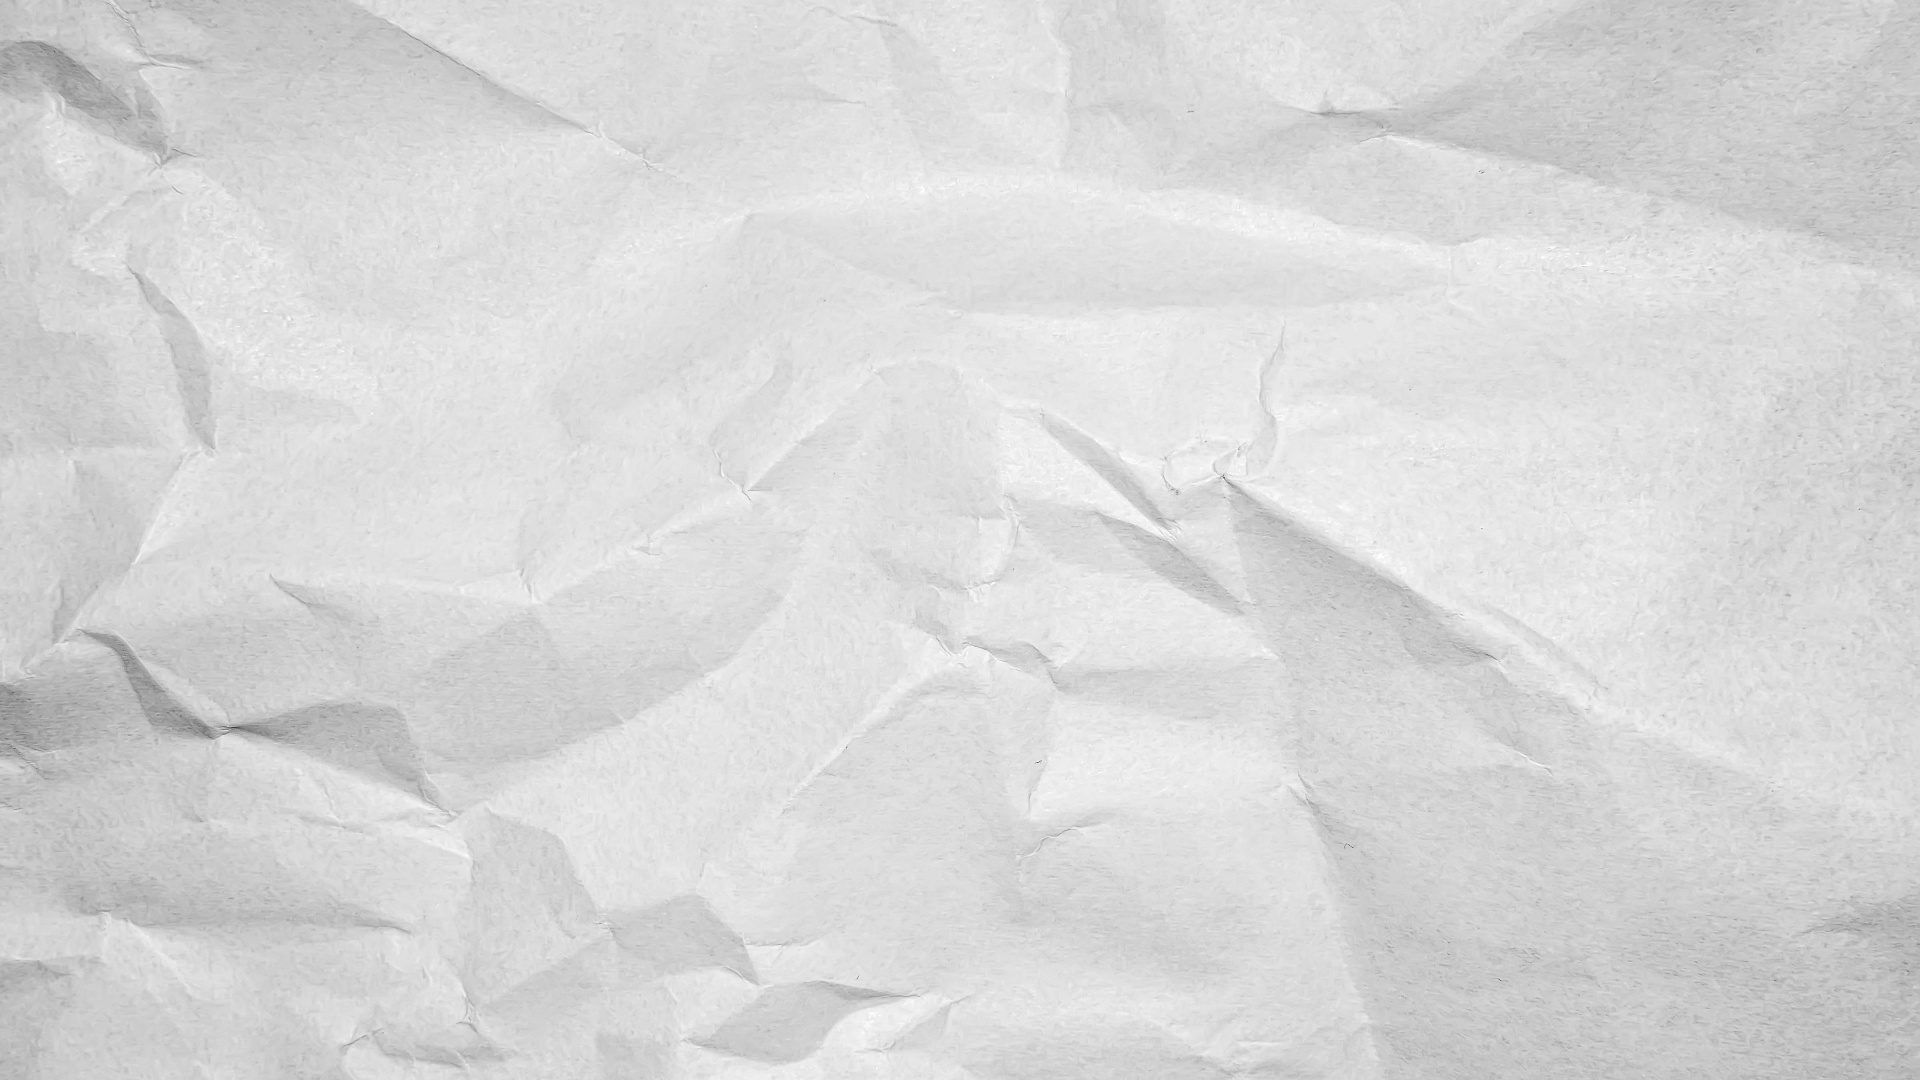
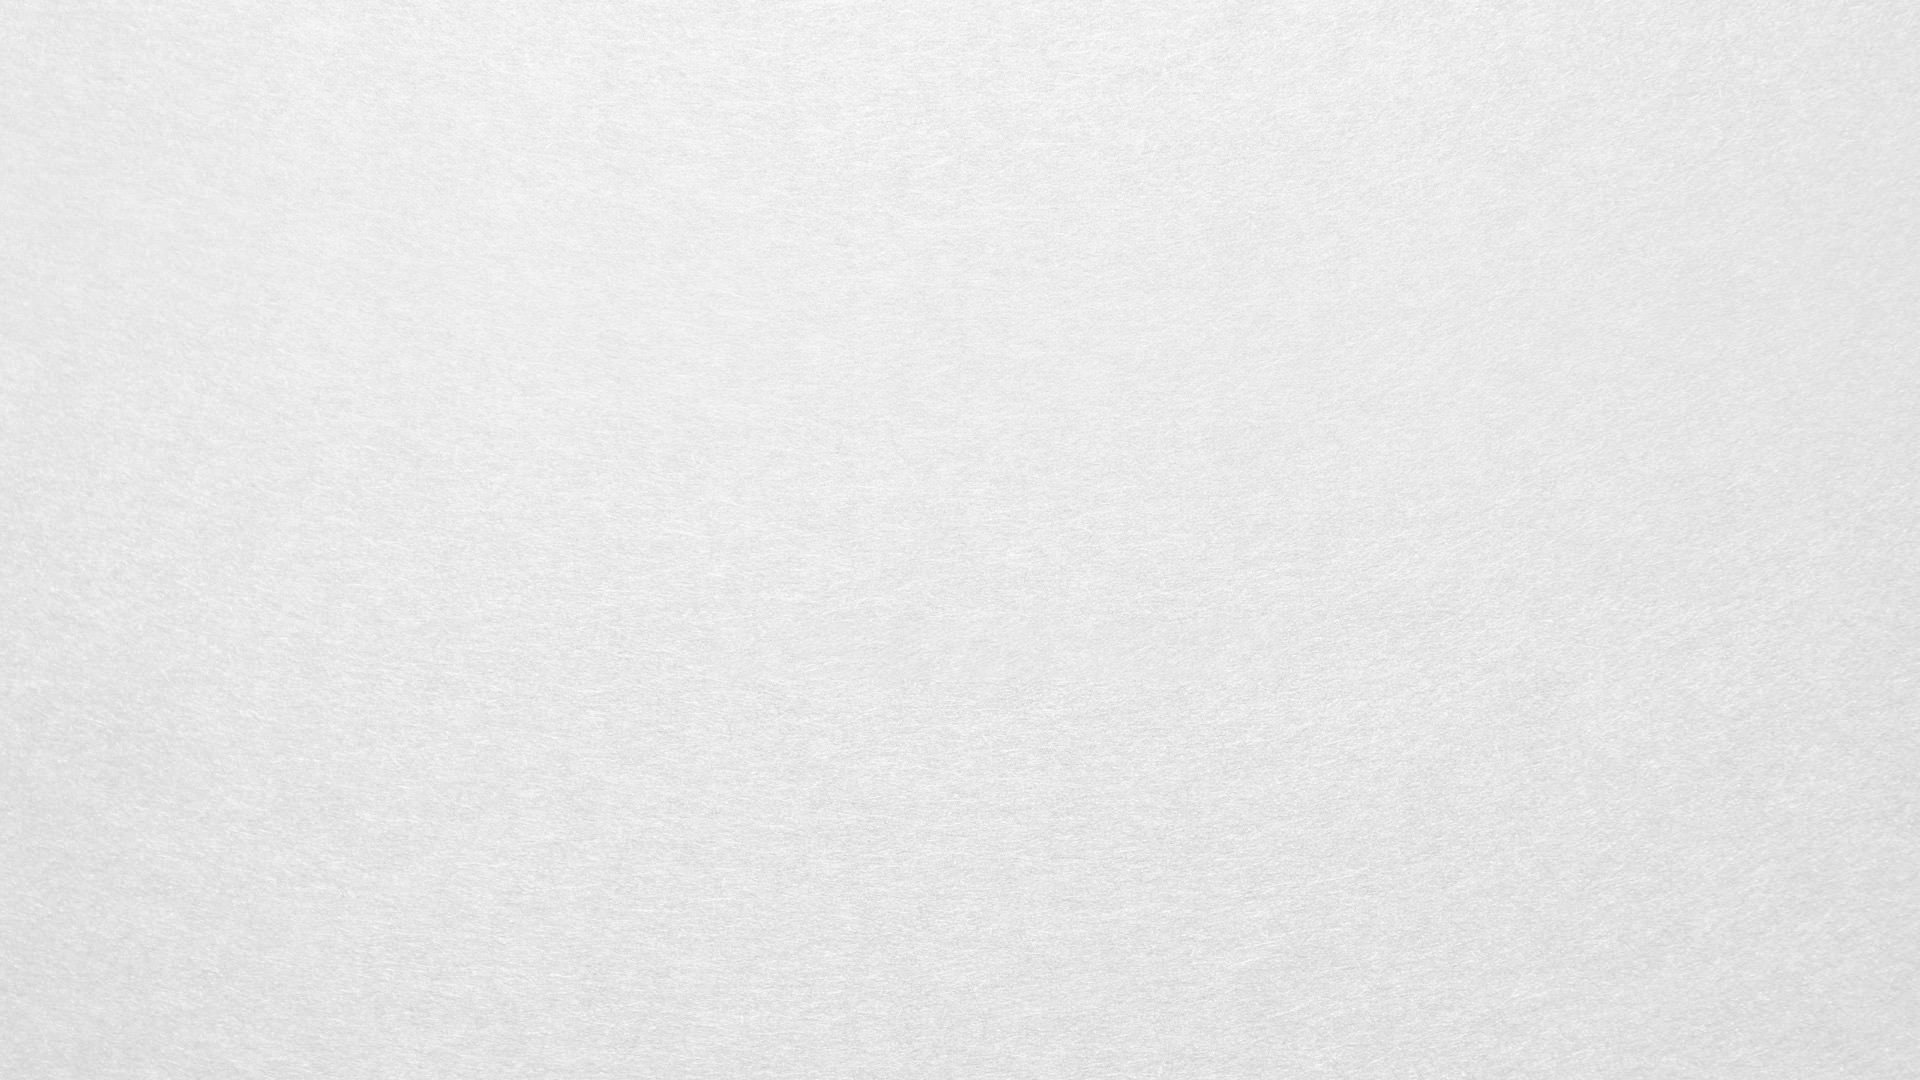
Added background

diff --git a/src/Main/GameStart.java b/src/Main/GameStart.java
@@ -17,6 +17,7 @@ public class GameStart extends JComponent implements Runnable, KeyListener { //R
     private boolean running; //переменная показывающая запущена ли игра
 
     Image player;
+    Image paper;
 
 
     public void start(){
@@ -29,7 +30,7 @@ public class GameStart extends JComponent implements Runnable, KeyListener { //R
          long delta;
 
          init();
-
+        renderStatic(getGraphics());
          while (running){
              delta = System.currentTimeMillis() - lastTime; //разница между кадрами
              lastTime = System.currentTimeMillis(); //обновление времени
@@ -38,10 +39,20 @@ public class GameStart extends JComponent implements Runnable, KeyListener { //R
          }
     }
 
+    private void renderStatic(Graphics g) {
+        Graphics2D g2 = (Graphics2D)g;
+        g2.drawImage(paper,0,0,null);
+    }
+
     public void init(){
         try {
             player = ImageIO.read(new File("Assets/Image/player_1.png"));
         } catch (IOException e) {
+            e.printStackTrace();
+        }
+        try{
+            paper = ImageIO.read(new File("Assets/Image/papper.jpg"));
+        } catch (IOException e){
             e.printStackTrace();
         }
     }
@@ -52,7 +63,7 @@ public class GameStart extends JComponent implements Runnable, KeyListener { //R
 
     public void render (Graphics g){
         Graphics2D g2 = (Graphics2D)g;
-        g2.drawImage(player,30,30,null);
+        g2.drawImage(player,740,340,null);
     }
 
 
